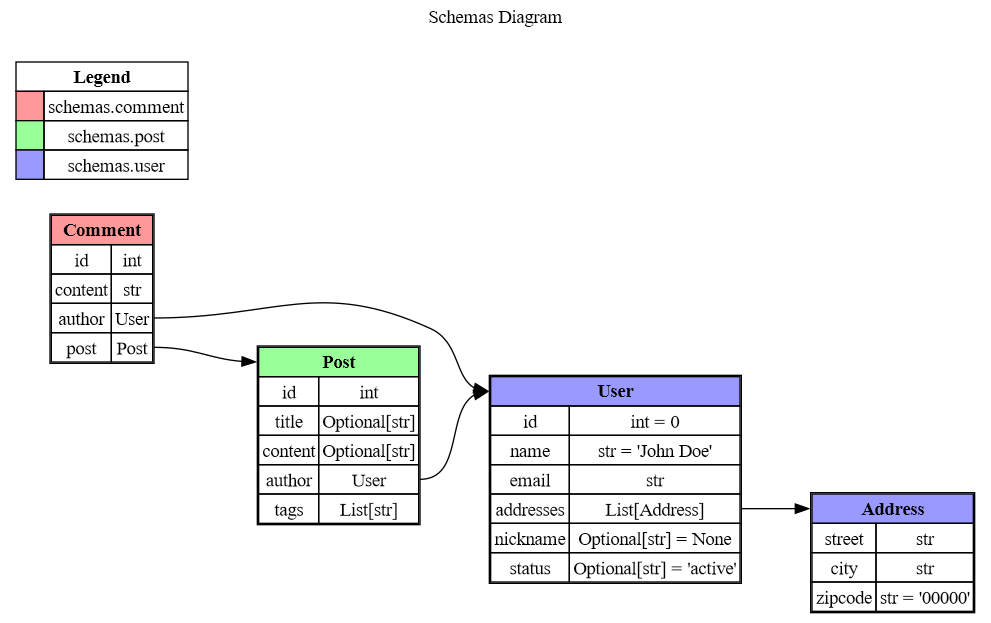
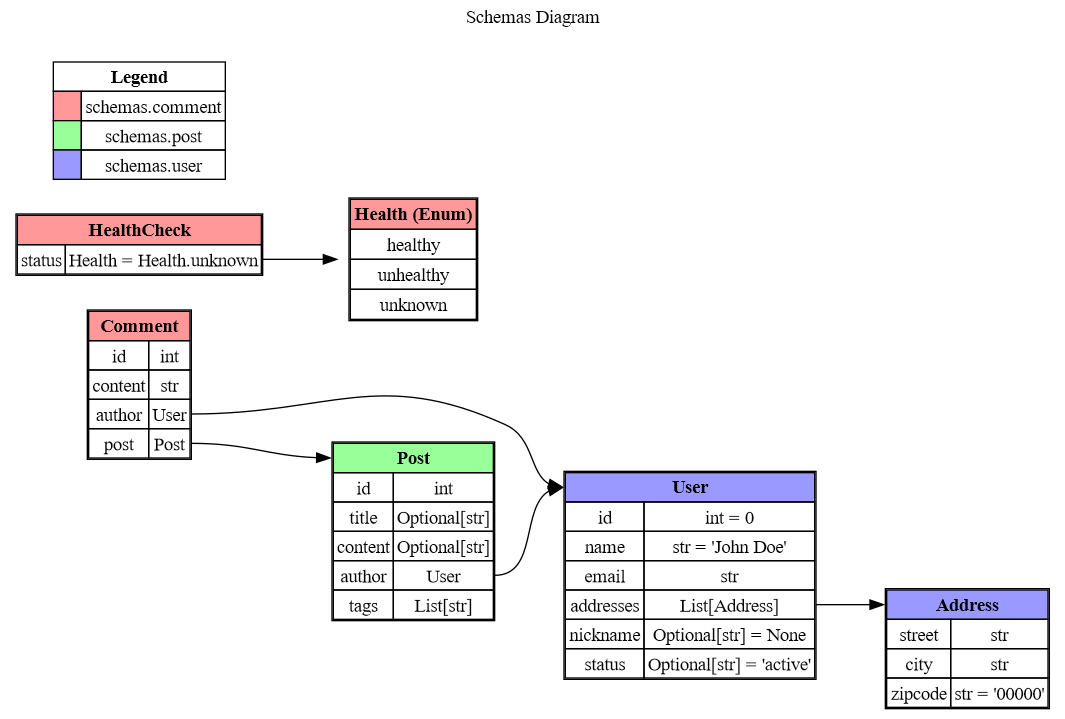
fix bugs

Changed region(s): [[0.0, 0.061, 0.999, 1.0], [0.4238, 0.0, 0.5752, 0.061], [0.3633, 0.488, 0.4238, 0.5185]]

diff --git a/extract_schemas.py b/extract_schemas.py
@@ -4,12 +4,12 @@ import inspect
 import re
 import sys
 from enum import Enum
-from typing import Dict, List, Union, get_args, get_origin, Optional
+from typing import Dict, List, Optional, Union, get_args, get_origin
 
-import pygraphviz as pgv
 import pydantic
+import pygraphviz as pgv
 from pydantic.fields import FieldInfo
-from pydantic_core import PydanticUndefined
+from pydantic_core import PydanticUndefined  # Correctly import Undefined
 
 # Define built-in types to exclude
 BUILTIN_TYPES = set(sys.builtin_module_names) | {
@@ -143,7 +143,6 @@ def build_class_map(module_names: List[str]) -> Dict[str, Dict]:
                     type_info = parse_field_type(field_type)
                     field_info: FieldInfo = cls.model_fields.get(field_name)
                     if field_info:
-                        print("---", type(field_info.default), field_info.default)
                         # Determine if the field has a default value or default factory
                         if field_info.default is not PydanticUndefined:
                             default_value = field_info.default
@@ -334,8 +333,11 @@ def visualize_schemas(class_map: Dict[str, Dict]):
                     default_value = field_info["default"]
                     has_default = field_info["has_default"]
                     if has_default:
-                        # Append default value to type, handling 'default_factory'
-                        if default_value == "default_factory":
+                        # Append default value to type, handling Enum and 'default_factory'
+                        if isinstance(default_value, Enum):
+                            # Simplified Enum representation: EnumClass.MemberName
+                            display_type += f" = {default_value.__class__.__name__}.{default_value.name}"
+                        elif default_value == "default_factory":
                             display_type += f" = <default_factory>"
                         else:
                             display_type += f" = {repr(default_value)}"
@@ -420,7 +422,8 @@ def visualize_schemas(class_map: Dict[str, Dict]):
 def main():
     # Specify the modules you want to include
     module_names = [
-        "schemas.comment",  # Replace with your actual module paths
+        "schemas.comment",          # Existing module
+        # Add other modules as needed
     ]
 
     class_map = build_class_map(module_names)

diff --git a/schemas/comment.py b/schemas/comment.py
@@ -1,3 +1,5 @@
+from enum import StrEnum
+
 from pydantic import BaseModel
 
 from schemas.post import Post
@@ -9,3 +11,13 @@ class Comment(BaseModel):
     content: str
     author: User
     post: Post
+
+
+class Health(StrEnum):
+    healthy = "healthy"
+    unhealthy = "unhealthy"
+    unknown = "unknown"
+
+
+class HealthCheck(BaseModel):
+    status: Health = Health.unknown
